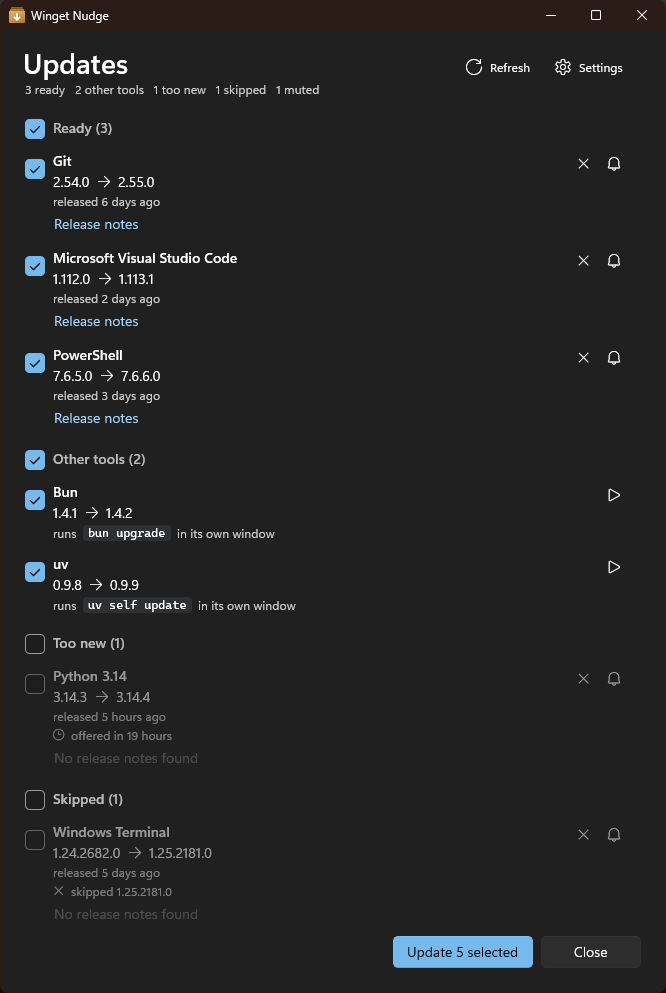
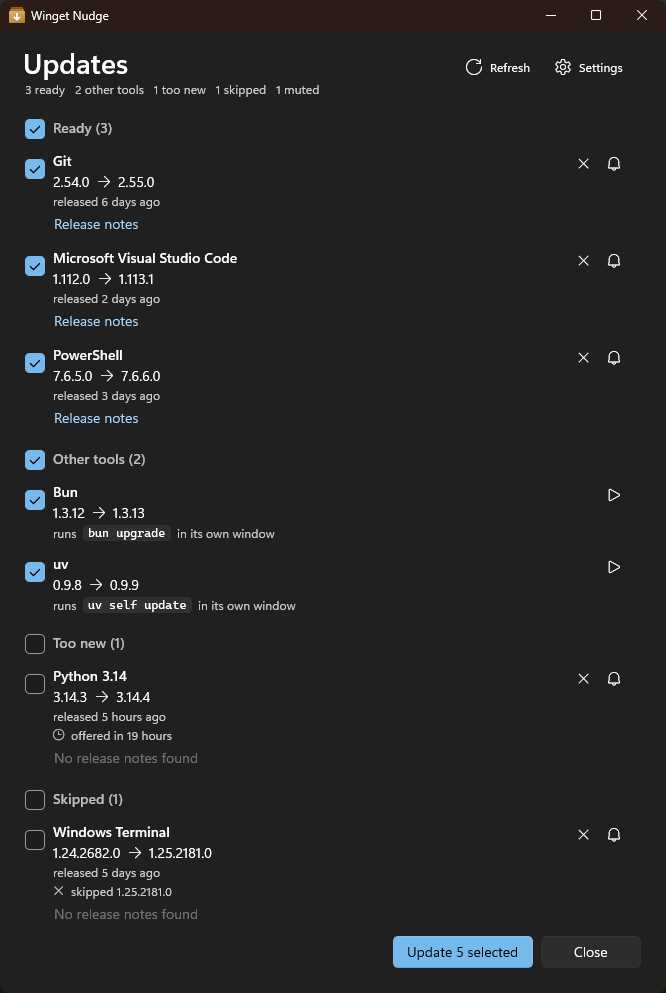
docs(app): move the demo inventory off pinned versions and recapture
The demo inventory showed Bun at the version package.json pins and a
.NET SDK entry at the version global.json pins. Bun now goes from
1.3.12 to 1.3.13 and the SDK entry is 9.0.306, both below today's
pins, so a later bump cannot land on them.

Both README screenshots come from the demo inventory again, at the
same size and framing. Beyond the Bun row, they show the Too new and
Skipped rows undimmed, as the picker has drawn them since it stopped
dimming rows.

diff --git a/src/WingetNudge/Services/DemoInventory.cs b/src/WingetNudge/Services/DemoInventory.cs
@@ -79,12 +79,12 @@ internal static class DemoInventory
         new("Python.Python.3.14", "Python 3.14", "3.14.3", "3.14.4", TimeSpan.FromHours(5)),
         new("Discord.Discord", "Discord", "1.0.9212", "1.0.9215", TimeSpan.FromDays(1)),
         new("Microsoft.WindowsTerminal", "Windows Terminal", "1.24.2682.0", "1.25.2181.0", TimeSpan.FromDays(5)),
-        new("Microsoft.DotNet.SDK.10", "Microsoft .NET SDK 10.0", "10.0.401", null, TimeSpan.Zero),
+        new("Microsoft.DotNet.SDK.9", "Microsoft .NET SDK 9.0", "9.0.306", null, TimeSpan.Zero),
     ];
 
     private static readonly Dictionary<string, string> ToolVersions = new(StringComparer.Ordinal)
     {
-        ["bun"] = "1.4.1",
+        ["bun"] = "1.3.12",
         ["uv"] = "uv 0.9.8",
     };
 
@@ -137,7 +137,7 @@ internal static class DemoInventory
                 UpgradeCommand = "bun upgrade",
             }
         );
-        services.Tools.SaveCache("bun", new ToolCacheEntry("1.4.2", now));
+        services.Tools.SaveCache("bun", new ToolCacheEntry("1.3.13", now));
         services.Tools.Register(
             "uv",
             new ToolDefinition
